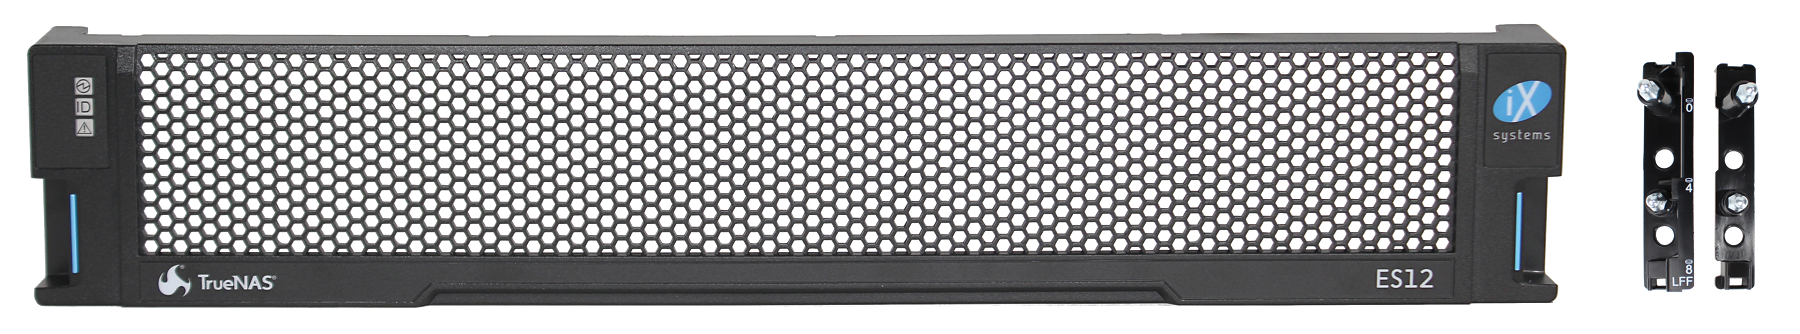
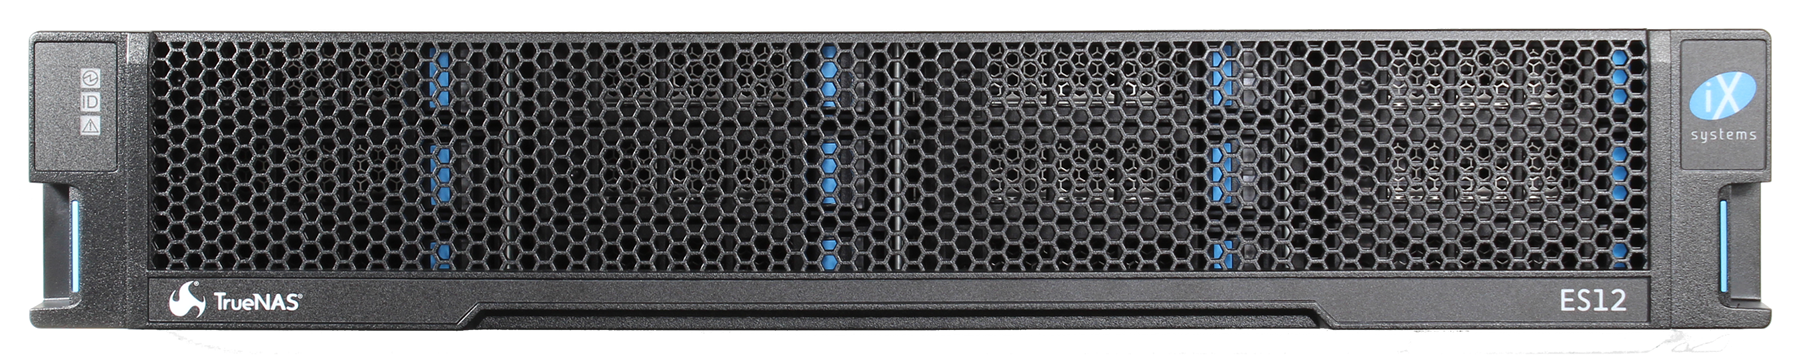
Remove bezel ears and instructions, these will be pre-installed

diff --git a/userguide/snippets/es12.rst b/userguide/snippets/es12.rst
@@ -185,11 +185,13 @@ T1 connector on the second ES12's expander module 1. Plug the other
 end into the SAS 2 connector on the X series node 1. See cable #3 in
 :numref:`Figure %s <es12_sasconnect2>`.
 
-If the X10 has a second node for HA (High Availability), plug one end
-of an SAS cable into the T1 connector of the second ES12's expander
-module 2. Plug the other end into the X series node 2, SAS 2
+If the X series has a second node for HA (High Availability), plug one
+end of an SAS cable into the T1 connector of the second ES12's
+expander module 2. Plug the other end into the X series node 2, SAS 2
 connector. See cable #4 in
 :numref:`Figure %s <es12_sasconnect2>`.
+
+
 
 
 .. _es12_sasconnect2:

diff --git a/userguide/snippets/x_rails.rst b/userguide/snippets/x_rails.rst
@@ -69,7 +69,6 @@ installation or removal.** Do not install drives until after the
 chassis has been installed in the rack, and remove all drives before
 removing the chassis from the rack.
 
-Snap the black bezel mounting ears onto the metal chassis ears.
 Carefully place the chassis onto the rails mounted in the rack. Push
 the chassis in until the ears are flush with the front of the rack.
 Use two of the supplied screws to secure each ear to the rack.
